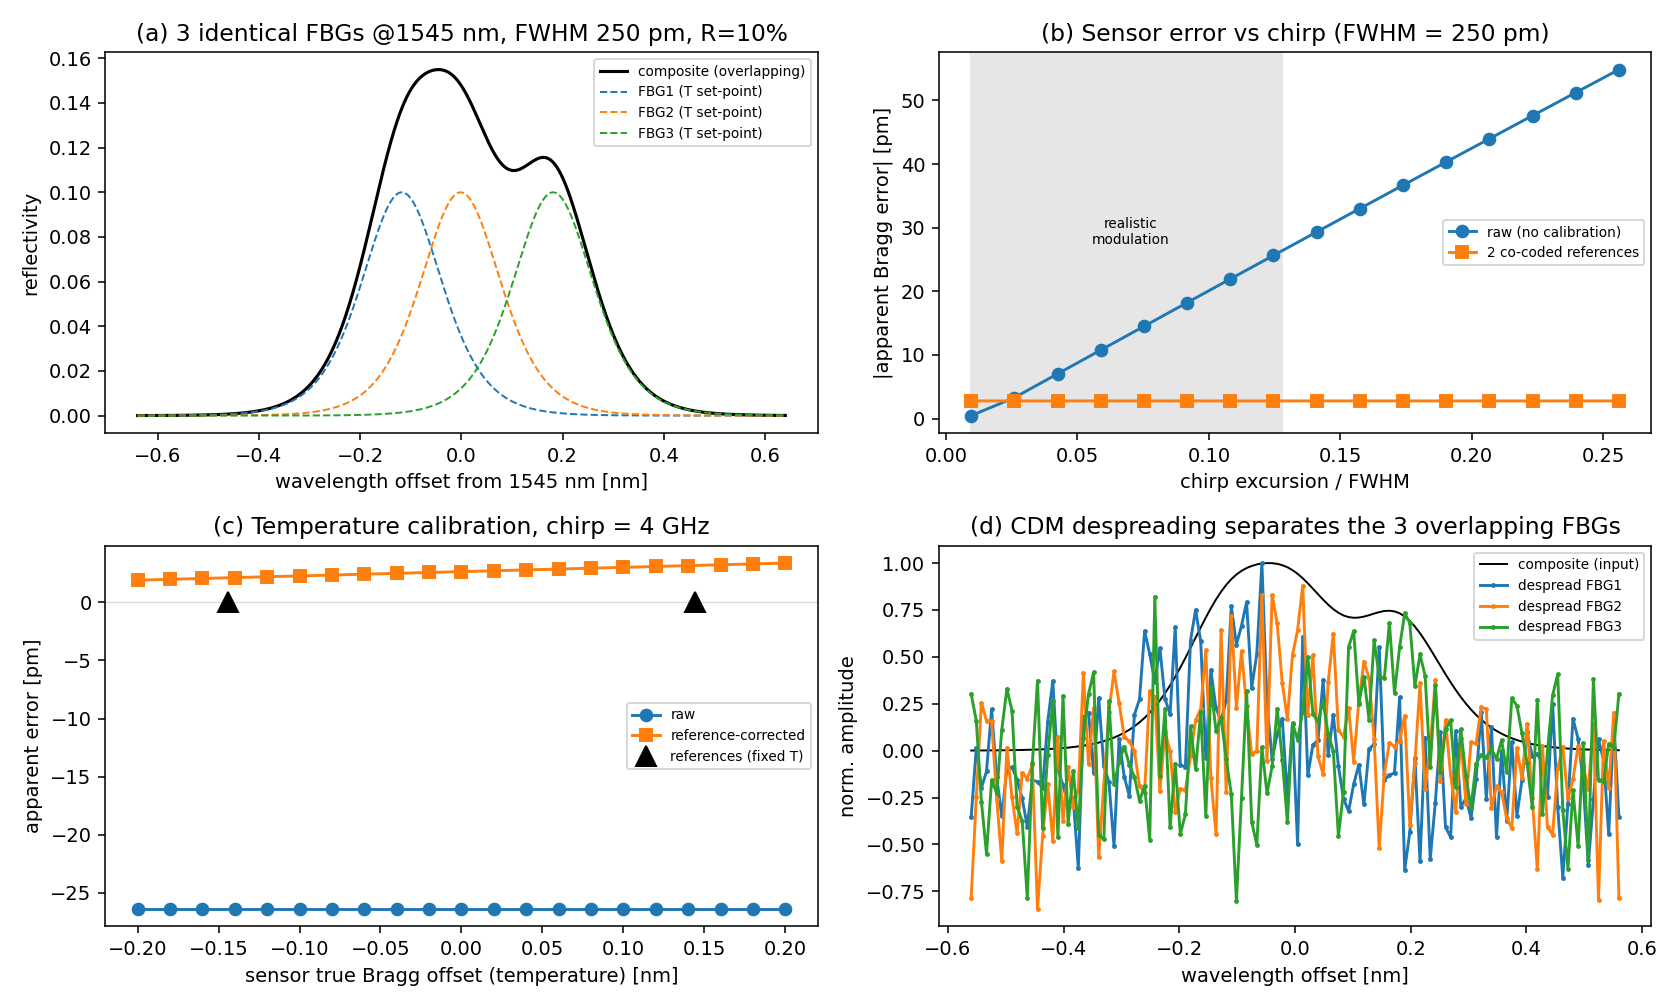
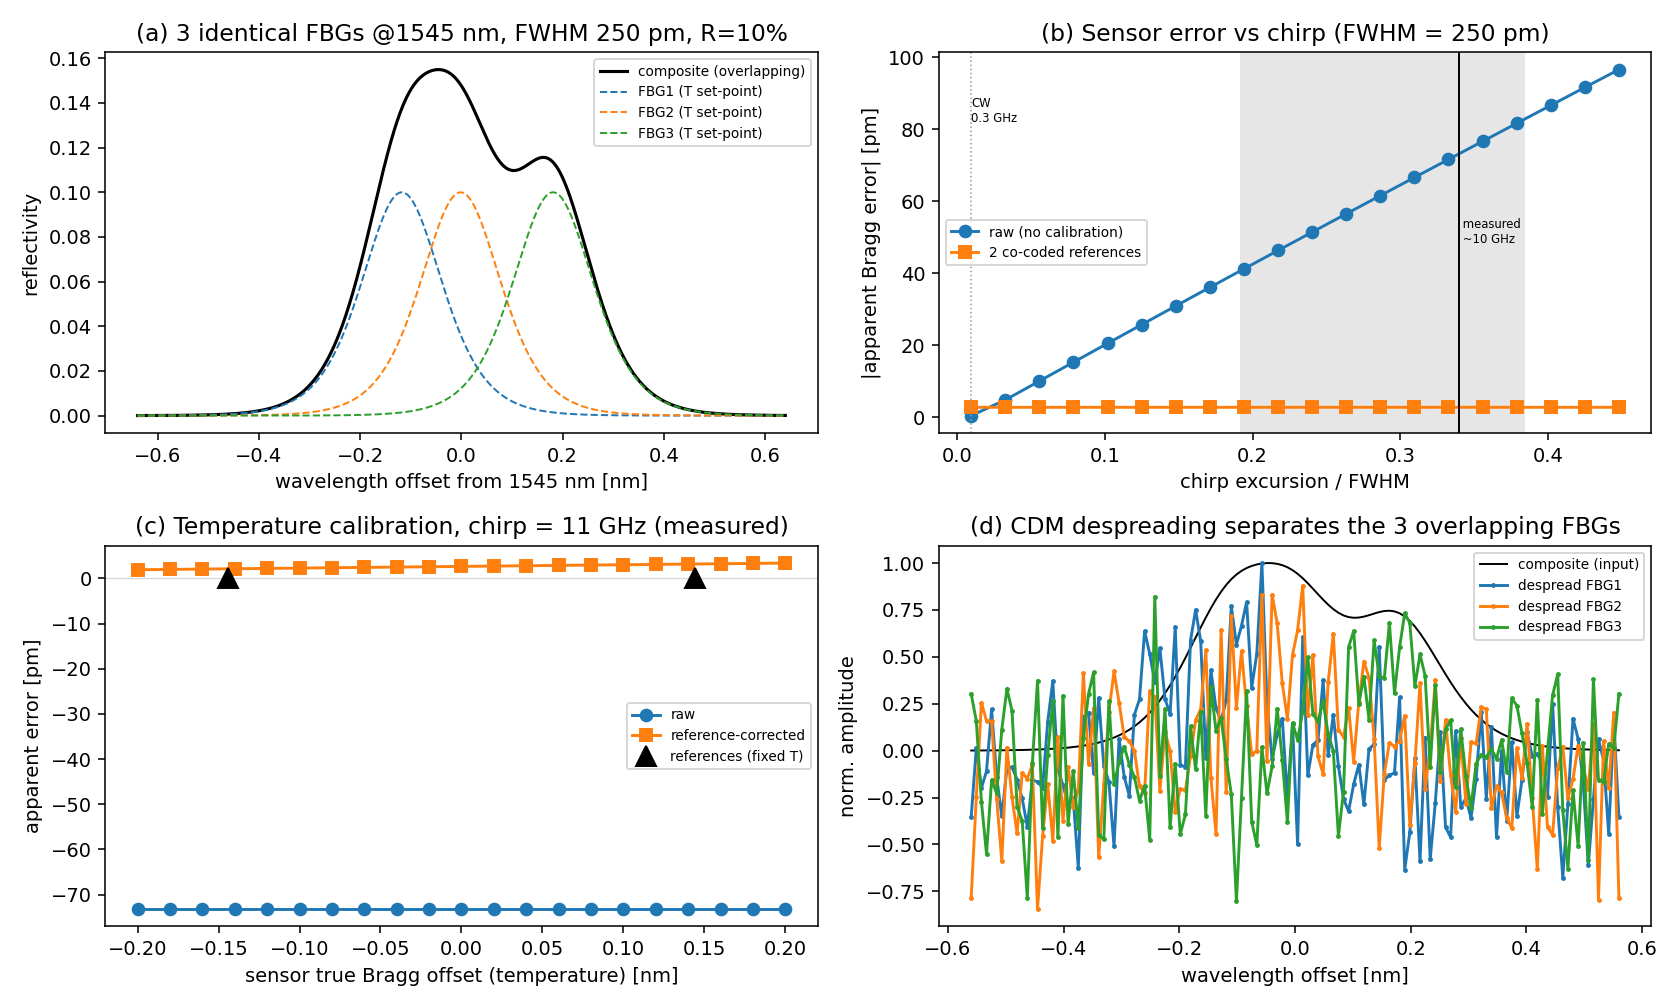
Symulacje: chirp ~10 GHz odczytany z widma roznicowego JLT (Markowski 2023); s6 na zmierzonym chirpie (72 pm -> 3 pm)

diff --git a/python_selfcal_cdm/s6_experiment.py b/python_selfcal_cdm/s6_experiment.py
@@ -32,7 +32,7 @@ composite = np.clip(sum(R*s for s in specs), 0, None)
 ref_nu = np.array([-18.0, +18.0])       # two references set ~+/-150 pm by temperature
 ref_as = np.array([+0.01, -0.01])       # references well characterized
 sen_nu = 4.0; sen_as = 0.05             # sensor near band center
-deltas = np.linspace(0.3, 8.0, 16)      # chirp excursion [GHz] (set by modulation depth)
+deltas = np.linspace(0.3, 14.0, 20)     # chirp excursion [GHz] (set by modulation depth)
 raw=[]; cor=[]
 for d in deltas:
     e_s = app_err(sen_nu, d, sen_as)
@@ -41,7 +41,7 @@ for d in deltas:
     raw.append(abs(e_s)); cor.append(abs(e_s - np.polyval(p, sen_nu)))
 
 # (c) temperature calibration at a fixed realistic modulation (chirp 4 GHz)
-d_fix = 4.0
+d_fix = C.MEAS_CHIRP_GHZ
 true_nu = np.linspace(-25, 25, 21)      # sensor true Bragg via temperature [GHz]
 e_r = np.array([app_err(ref_nu[j], d_fix, ref_as[j]) for j in range(2)])
 p = np.polyfit(ref_nu, e_r, 1)
@@ -67,7 +67,11 @@ ax[0,0].set_xlabel('wavelength offset from 1545 nm [nm]'); ax[0,0].set_ylabel('r
 ax[0,0].set_title('(a) 3 identical FBGs @1545 nm, FWHM 250 pm, R=10%'); ax[0,0].legend(fontsize=7)
 ax[0,1].plot(deltas/F, raw,'o-',label='raw (no calibration)')
 ax[0,1].plot(deltas/F, cor,'s-',label='2 co-coded references')
-ax[0,1].axvspan(0.3/F, 4.0/F, color='0.9'); ax[0,1].text(2.2/F,max(raw)*0.5,'realistic\nmodulation',fontsize=7,ha='center')
+lw=C.LASER_LINEWIDTH_GHZ; mc=C.MEAS_CHIRP_GHZ
+ax[0,1].axvspan(C.CHIRP_REALISTIC_GHZ[0]/F, C.CHIRP_REALISTIC_GHZ[1]/F, color='0.9')
+ax[0,1].axvline(mc/F, color='k', ls='-', lw=1.0); ax[0,1].axvline(lw/F, color='0.6', ls=':', lw=0.8)
+ax[0,1].text(mc/F, max(raw)*0.5, ' measured\n ~10 GHz', fontsize=6, ha='left')
+ax[0,1].text(lw/F, max(raw)*0.85, 'CW\n0.3 GHz', fontsize=6, ha='left')
 ax[0,1].set_xlabel('chirp excursion / FWHM'); ax[0,1].set_ylabel('|apparent Bragg error| [pm]')
 ax[0,1].set_title('(b) Sensor error vs chirp (FWHM = 250 pm)'); ax[0,1].legend(fontsize=7)
 ax[1,0].axhline(0,c='0.85',lw=0.7)
@@ -75,14 +79,16 @@ ax[1,0].plot(true_nu*PM/1000, e_raw,'o-',label='raw')
 ax[1,0].plot(true_nu*PM/1000, e_cor,'s-',label='reference-corrected')
 ax[1,0].plot(ref_nu*PM/1000,[0,0],'k^',ms=10,label='references (fixed T)')
 ax[1,0].set_xlabel('sensor true Bragg offset (temperature) [nm]'); ax[1,0].set_ylabel('apparent error [pm]')
-ax[1,0].set_title('(c) Temperature calibration, chirp = 4 GHz'); ax[1,0].legend(fontsize=7)
+ax[1,0].set_title(f'(c) Temperature calibration, chirp = {C.MEAS_CHIRP_GHZ:.0f} GHz (measured)'); ax[1,0].legend(fontsize=7)
 ax[1,1].plot(slots*PM/1000, comp_slots/comp_slots.max(),'k',lw=1,label='composite (input)')
 for k in range(3): ax[1,1].plot(slots*PM/1000, desp[k]/dmax,'.-',ms=3,label=f'despread FBG{k+1}')
 ax[1,1].set_xlabel('wavelength offset [nm]'); ax[1,1].set_ylabel('norm. amplitude')
 ax[1,1].set_title('(d) CDM despreading separates the 3 overlapping FBGs'); ax[1,1].legend(fontsize=7)
 plt.tight_layout(); plt.savefig('figs/fig_s6_experiment.png',dpi=140)
-i4=int(np.argmin(abs(deltas-4)))
+i4=int(np.argmin(abs(deltas-C.MEAS_CHIRP_GHZ)))
 print(f"FBG: lambda0={C.LAMBDA0_NM} nm, FWHM={C.FBG_FWHM_PM} pm (={F:.1f} GHz), R={C.FBG_R}, {C.N_GRATINGS_BENCH} on bench / {C.N_GRATINGS_AVAIL} procured")
-print(f"raw sensor error @chirp=4 GHz (Delta/FWHM={4/F:.2f}): {raw[i4]:.1f} pm; 2-ref corrected: {cor[i4]:.2f} pm")
+print(f"laser line (Markowski 2023) = {C.LASER_LINEWIDTH_PM} pm = {C.LASER_LINEWIDTH_GHZ:.2f} GHz")
+print(f"raw sensor error @measured chirp {C.MEAS_CHIRP_GHZ:.1f} GHz (Delta/FWHM={C.MEAS_CHIRP_GHZ/F:.2f}): {raw[i4]:.1f} pm; 2-ref corrected: {cor[i4]:.2f} pm")
+
 print(f"temperature-calibration residual RMS (corrected): {np.sqrt(np.mean(e_cor**2)):.2f} pm")
 print("saved figs/fig_s6_experiment.png")

diff --git a/python_selfcal_cdm/common.py b/python_selfcal_cdm/common.py
@@ -33,6 +33,19 @@ TEMP_RANGE_C       = (15.0, 60.0)   # Peltier set-point range (to confirm)
 TUNING_RANGE_PM    = (TEMP_RANGE_C[1] - TEMP_RANGE_C[0]) * TEMP_COEF_PM_PER_C  # ~450 pm
 TEMP_STAB_C        = 0.1       # PID stability -> ~1 pm wavelength stability
 
+# Source: swept HCG-VCSEL (BW10-1550). The CW laser line is narrow, FWHM 2.4 pm
+# (~0.3 GHz Lorentzian) in the WDM-CDM model [Markowski 2023]. Under direct code
+# modulation the carrier CHIRPS: the same paper's "differential output spectra"
+# (with-code minus without-code) shows a dispersive dip(-)/peak(+) at the code
+# wavelength, and the depleted-to-gained separation is about 0.08-0.10 nm, i.e.
+# a chirp excursion of ~10 GHz (much larger than the CW line). This is the FM-AM
+# driver this study addresses; the exact value should be re-read from the paper.
+LASER_LINEWIDTH_PM  = 2.4      # CW laser line FWHM (probing linewidth)
+LASER_LINEWIDTH_GHZ = LASER_LINEWIDTH_PM * GHZ_PER_PM   # ~0.30 GHz
+MEAS_CHIRP_PM       = 85.0     # code-induced shift, dip-to-peak in differential output spectra
+MEAS_CHIRP_GHZ      = MEAS_CHIRP_PM * GHZ_PER_PM        # ~10.6 GHz
+CHIRP_REALISTIC_GHZ = (6.0, 12.0)   # measured-chirp band [GHz]; confirm exact value from paper
+
 def temp_to_dnu_ghz(dT_celsius):
     """Bragg detuning (GHz) for a temperature change dT (Celsius) at ~10 pm/C."""
     return dT_celsius * TEMP_COEF_PM_PER_C * GHZ_PER_PM
